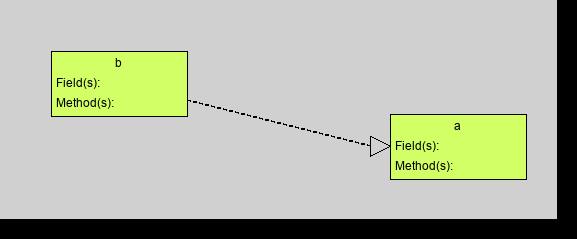
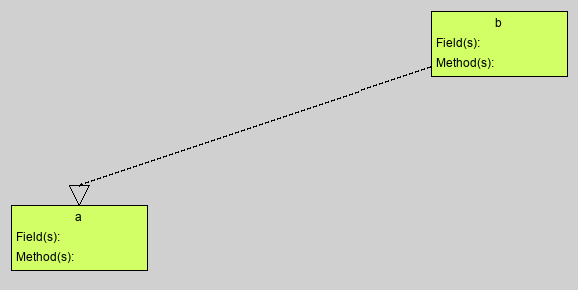
Fixed boundaries of the exported png

diff --git a/gui/ImageAdapter.py b/gui/ImageAdapter.py
@@ -300,7 +300,7 @@ def save_as_png(file_name):
             #Draw the method/parameter text
             draw.text(xy=(center, my + 12), text=UMLMethod.block_text(i.name), fill="black", font=font, anchor="ma")
         #crop the image
-        cropped_image = image.crop((bounds[0] - 50, bounds[1] - 50, bounds[2] + 50, bounds[3] + 50))
+        cropped_image = image.crop((bounds[0] - 10, bounds[1] - 10, bounds[2] + 10, bounds[3] + 10))
         #Save the file as a png
         cropped_image.save(file_name + '.png')
         return "Exported png successfully."
